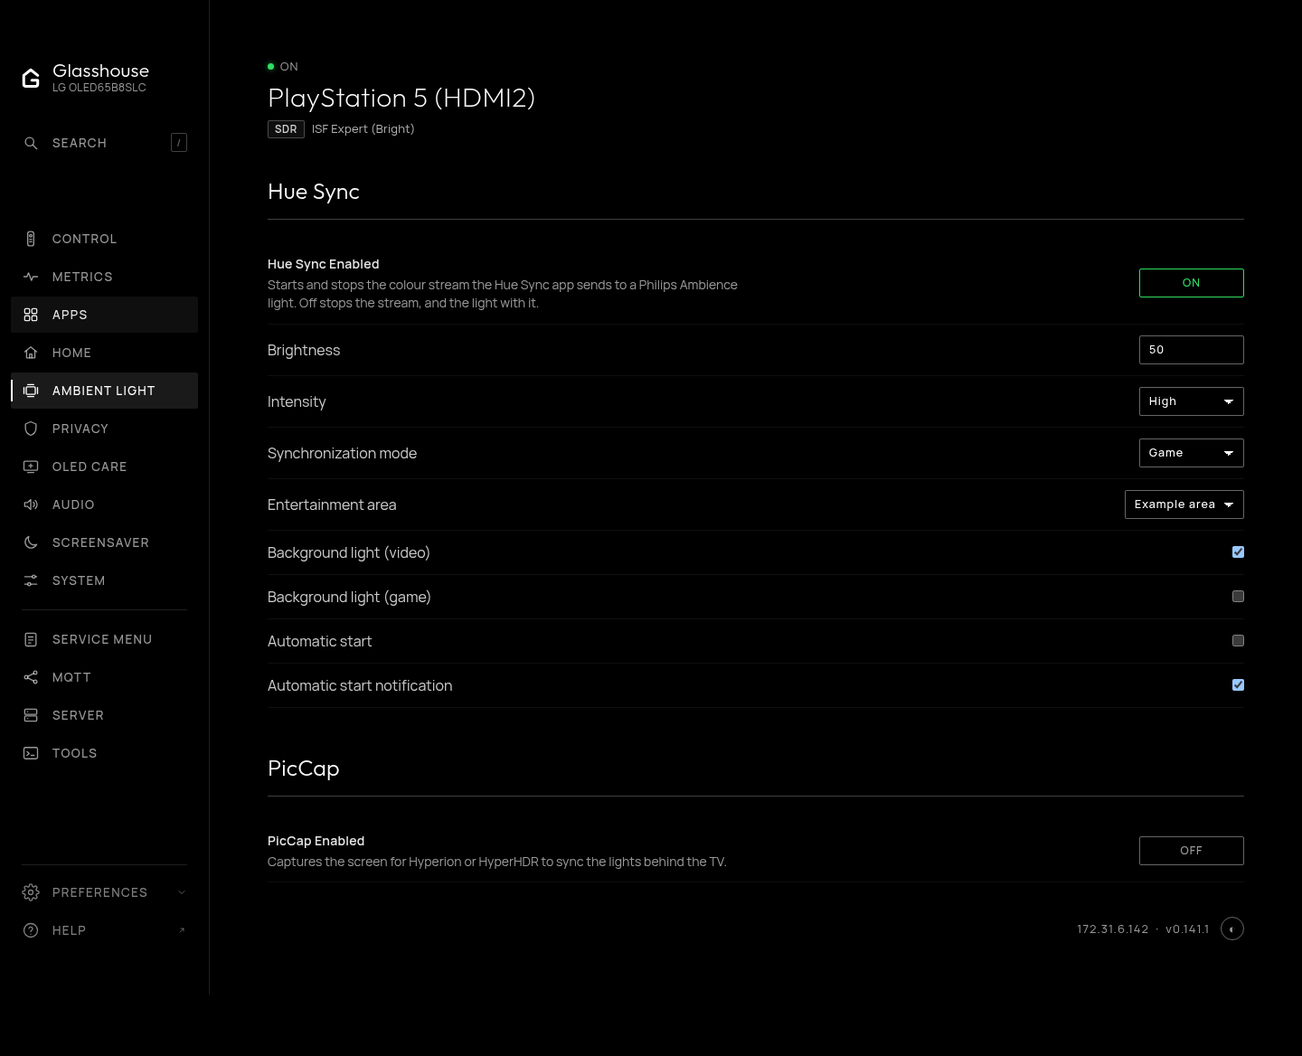
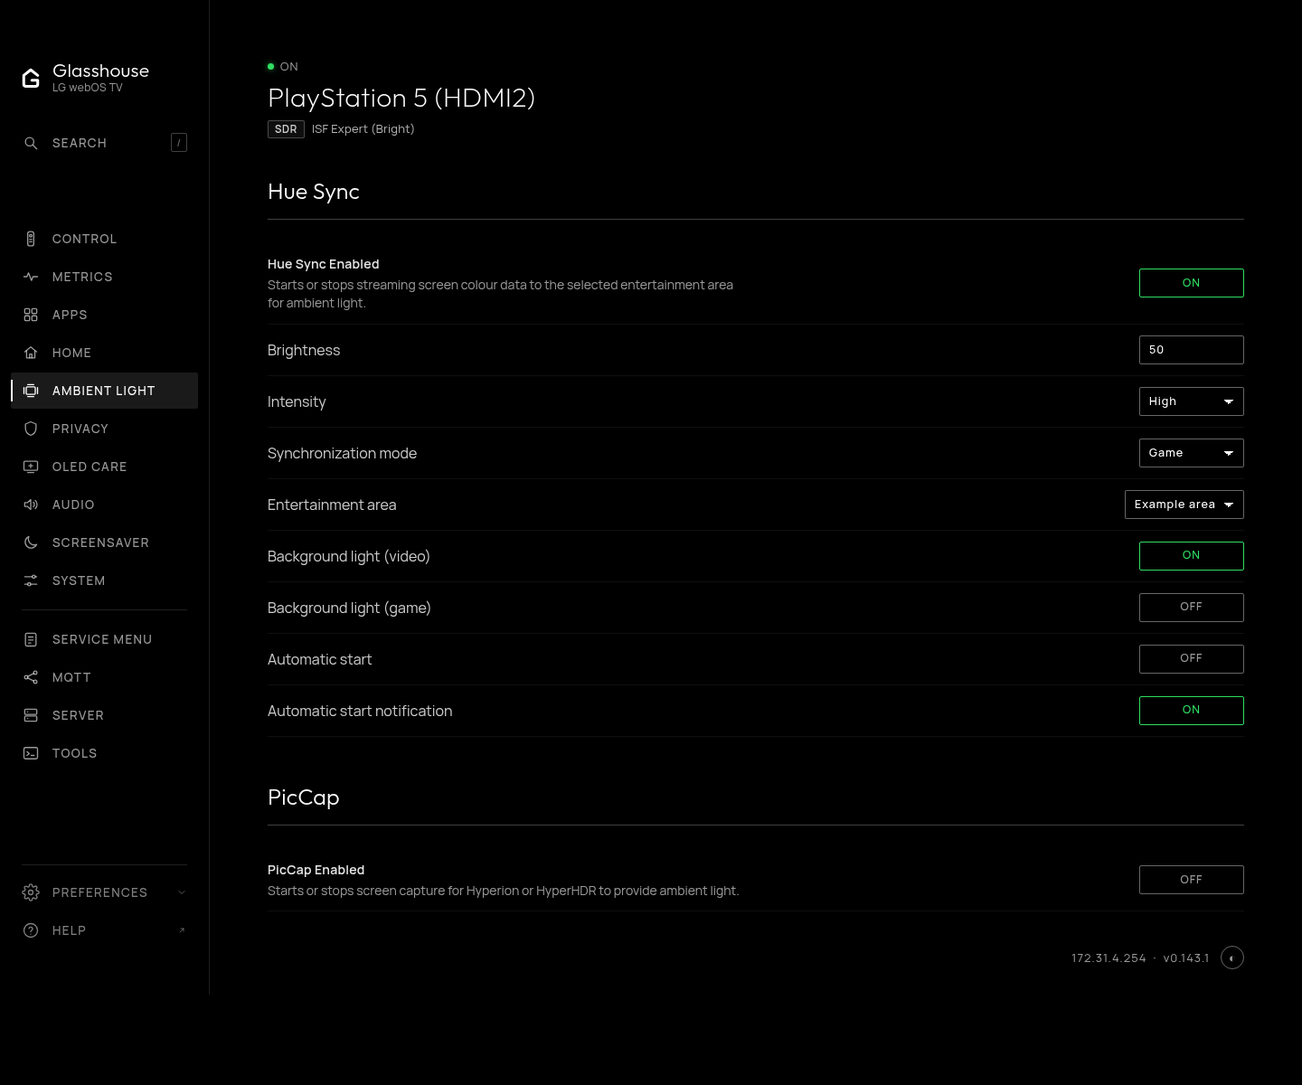
Hide unavailable Ambient Light tabs and use Hue Sync pill toggles

diff --git a/scripts/check-dashboards.js b/scripts/check-dashboards.js
@@ -2835,6 +2835,12 @@ async function visitHuesyncSettings(browser, base, problems) {
     if (!followsHome) fail('Ambient Light does not follow Home');
     await page.locator('#tabs [data-tab="ambient"]').click();
     await page.waitForSelector('#huesync-settings:not([hidden])');
+    for (const key of ['background_lightning_video', 'background_lightning_games', 'auto_start', 'auto_start_notification']) {
+      const toggle = page.locator('#huesync-' + key);
+      if (!(await toggle.evaluate(el => el.tagName === 'BUTTON' && el.classList.contains('pill')))) fail(key + ' is not a standard pill toggle');
+      if (await toggle.getAttribute('aria-pressed') !== String(settings[key]) ||
+          await toggle.textContent() !== (settings[key] ? 'On' : 'Off')) fail(key + ' does not show its current state');
+    }
     const categories = await page.locator('#ambient-huesync, #ambient-piccap').evaluateAll(els => els.filter(el => !el.hidden).map(el => el.querySelector('.pv-sec').textContent));
     if (JSON.stringify(categories) !== JSON.stringify(['Hue Sync', 'PicCap'])) fail('integration categories are missing or in the wrong order');
     if (await page.locator('#row-huesync .prot-title').textContent() !== 'Hue Sync Enabled' || await page.locator('#row-piccap .prot-title').textContent() !== 'PicCap Enabled') fail('enabled labels differ');
@@ -2885,21 +2891,30 @@ async function visitHuesyncSettings(browser, base, problems) {
         return command.action === 'huesyncSetting' && command.value.key === key;
       });
       const element = page.locator('#huesync-' + key);
-      if (typeof value === 'boolean') await element.setChecked(value);
-      else if (key === 'brightness') { await element.fill(String(value)); await element.dispatchEvent('change'); }
+      if (typeof value === 'boolean') await element.click();
+      else if (key === 'brightness') { await element.fill(String(value)); await element.blur(); }
       else await element.selectOption(String(value));
       const command = (await reply).request().postDataJSON();
       await page.waitForFunction(() => !huesyncSettingsBusy);
       if (!command || command.action !== 'huesyncSetting' || command.value.key !== key || command.value.value !== value) fail('wrong command for ' + key);
+      if (typeof value === 'boolean') {
+        await page.waitForFunction(({ key, value }) => document.getElementById('huesync-' + key).getAttribute('aria-pressed') === String(value), { key, value });
+        if (!(await element.evaluate((el, value) => el.classList.contains(value ? 'good' : 'idle'), value)) ||
+            await element.textContent() !== (value ? 'On' : 'Off')) fail(key + ' pill did not update after confirmation');
+      }
     }
     refuse = true;
+    await page.locator('#huesync-auto_start').click();
+    await page.waitForFunction(() => !huesyncSettingsBusy);
+    if (await page.locator('#huesync-auto_start').getAttribute('aria-pressed') !== 'true' ||
+        !(await page.locator('#huesync-auto_start').evaluate(el => el.classList.contains('good')))) fail('a refused boolean write changed its pill state');
     await page.locator('#huesync-brightness').fill('10');
-    await page.locator('#huesync-brightness').dispatchEvent('change');
+    await page.locator('#huesync-brightness').blur();
     await page.waitForFunction(() => !huesyncSettingsBusy);
     if (await page.locator('#huesync-brightness').inputValue() !== '60') fail('a refused write left an optimistic value visible');
-    settings._stale = ['brightness'];
+    settings._stale = ['brightness', 'auto_start'];
     await page.evaluate(() => tick());
-    await page.waitForFunction(() => document.querySelector('#huesync-brightness').disabled);
+    await page.waitForFunction(() => document.querySelector('#huesync-brightness').disabled && document.querySelector('#huesync-auto_start').disabled);
     if (!(await page.locator('#row-huesync-brightness').isVisible())) fail('a temporary failure removed the supported control');
     delete settings._stale;
     diagnostics.busy = true;
@@ -2928,14 +2943,23 @@ async function visitHuesyncSettings(browser, base, problems) {
     if (!(await page.locator('#ctl_huesync').evaluate(el => el.hidden))) fail('missing Hue Sync left its shortcut');
     piccapPresent = false;
     await page.evaluate(() => tick());
-    await page.waitForSelector('#ambient-empty:not([hidden])');
+    await page.waitForFunction(() => document.getElementById('tab-btn-ambient').hidden && activeTab === 'control');
+    if (!(await page.locator('#ambientpane').isHidden())) fail('unavailable Ambient Light panel remained open');
     if (!(await page.locator('#control-ambient').evaluate(el => el.hidden))) fail('empty remote toggle group remains visible');
+    await page.evaluate(() => showTab('ambient'));
+    if (await page.evaluate(() => activeTab) === 'ambient') fail('an unavailable Ambient Light tab can still be opened');
     huesyncPresent = true;
     await page.evaluate(() => tick());
+    await page.waitForFunction(() => !document.getElementById('tab-btn-ambient').hidden);
+    await page.evaluate(() => showTab('ambient'));
     await page.waitForSelector('#row-huesync:not([hidden])');
     if (await page.locator('#ambient-empty').isVisible()) fail('empty message remains with Hue Sync alone');
     if (!(await page.locator('#ambient-piccap').isHidden()) || !(await page.locator('#ambient-huesync').isVisible())) fail('missing PicCap left an empty category or hid Hue Sync');
     if (!(await page.locator('#ctl_piccap').evaluate(el => el.hidden))) fail('missing PicCap left its shortcut');
+    huesyncPresent = false;
+    await page.goto(base + '/?tab=ambient');
+    await page.waitForFunction(() => ambientAvailable === false && activeTab === 'control');
+    if (!(await page.locator('#tab-btn-ambient').isHidden()) || !(await page.locator('#control-ambient').isHidden())) fail('a deep link offered Ambient Light with neither integration installed');
   } finally { await page.unrouteAll({ behavior: 'wait' }); await page.close(); }
 }
 
@@ -3036,15 +3060,21 @@ async function visitTvHuesync(browser, base, problems) {
     await page.waitForFunction(() => rows.length === 2 && rows[0].head && rows[0].label === 'PicCap' && rows[1].key === 'piccap');
     piccapPresent = false;
     await page.evaluate(() => fetchTab(true));
-    await page.waitForFunction(() => rows.length === 1 && rows[0].label === 'No ambient light integrations found.');
-    await page.keyboard.press('ArrowRight');
-    await page.waitForFunction(() => T().key !== 'ambient');
-    await page.keyboard.press('ArrowLeft');
-    await page.waitForFunction(() => T().key === 'ambient');
-    present = true;
-    await page.evaluate(() => fetchTab(true));
+    await page.waitForFunction(() => !TABS.some(section => section.key === 'ambient') && T().key !== 'ambient');
+    if (await page.locator('#tabs [data-label="Ambient Light"]').count()) fail('the unavailable TV tab remained in navigation');
+    await page.reload();
+    await page.waitForFunction(() => !TABS.some(section => section.key === 'ambient') && T().key !== 'ambient');
+    const emptyText = await page.locator('#rows').textContent();
+    if (emptyText.includes('Hue Sync Enabled') || emptyText.includes('PicCap Enabled')) fail('an empty Ambient Light deep link left controls visible');
+    present = true; streaming = false;
+    await page.reload();
     await page.waitForFunction(() => rows.some(row => row.head && row.label === 'Hue Sync') && !rows.some(row => row.key === 'piccap'));
+    if (await page.evaluate(() => T().key) !== 'ambient') fail('a stopped Hue Sync integration did not retain its TV tab');
     if (await page.evaluate(() => rows.some(row => row.head && row.label === 'PicCap'))) fail('missing PicCap left an empty category');
+    present = false; piccapPresent = true; piccapRunning = false;
+    await page.reload();
+    await page.waitForFunction(() => rows.length === 2 && rows[1].key === 'piccap' && rows[1].next === true);
+    if (await page.evaluate(() => T().key) !== 'ambient') fail('a stopped PicCap integration did not retain its TV tab');
   } finally { await page.unrouteAll({ behavior: 'wait' }); await page.close(); }
 }
 

diff --git a/server/assets/ui.html b/server/assets/ui.html
@@ -66,7 +66,7 @@
     <button type="button" role="tab" data-tab="metrics"><svg class="nav-ico" viewBox="0 0 24 24" aria-hidden="true"><path d="M3 12h4l2-5 4 10 2-5h6"/></svg><span data-t="tab.metrics">Metrics</span></button>
     <button type="button" role="tab" data-tab="apps"><svg class="nav-ico" viewBox="0 0 24 24" aria-hidden="true"><rect x="4" y="4" width="6.5" height="6.5" rx="1.5"/><rect x="13.5" y="4" width="6.5" height="6.5" rx="1.5"/><rect x="4" y="13.5" width="6.5" height="6.5" rx="1.5"/><rect x="13.5" y="13.5" width="6.5" height="6.5" rx="1.5"/></svg><span data-t="tab.apps">Apps</span></button>
     <button type="button" role="tab" data-tab="home" id="tab-btn-home" hidden><svg class="nav-ico" viewBox="0 0 24 24" aria-hidden="true"><path d="M4 11l8-6.5 8 6.5"/><path d="M6.5 9.5V19h11V9.5"/><path d="M10.5 19v-5h3v5"/></svg><span data-t="tab.home">Home</span></button>
-    <button type="button" role="tab" data-tab="ambient"><svg class="nav-ico" viewBox="0 0 24 24" aria-hidden="true"><rect x="6" y="7" width="12" height="10" rx="1.5"/><path d="M3 8v8M21 8v8M8 4h8M8 20h8"/></svg><span data-t="adv.ambient">Ambient Light</span></button>
+    <button type="button" role="tab" data-tab="ambient" id="tab-btn-ambient" hidden><svg class="nav-ico" viewBox="0 0 24 24" aria-hidden="true"><rect x="6" y="7" width="12" height="10" rx="1.5"/><path d="M3 8v8M21 8v8M8 4h8M8 20h8"/></svg><span data-t="adv.ambient">Ambient Light</span></button>
     <button type="button" role="tab" data-tab="privacy"><svg class="nav-ico" viewBox="0 0 24 24" aria-hidden="true"><path d="M12 3l7 3v5.5c0 4.4-3 8-7 9.5-4-1.5-7-5.1-7-9.5V6z"/></svg><span data-t="tab.privacy">Privacy</span></button>
     <button type="button" role="tab" data-tab="oledcare" id="tab-btn-oledcare" hidden><svg class="nav-ico" viewBox="0 0 24 24" aria-hidden="true"><rect x="3" y="5" width="18" height="12" rx="1.5"/><path d="M8 20h8M12 8.5v5M9.5 11h5"/></svg><span data-t="tab.oledCare">OLED Care</span></button>
     <button type="button" role="tab" data-tab="game" id="tab-btn-game" hidden><svg class="nav-ico" viewBox="0 0 24 24" aria-hidden="true"><path d="M7 8h10a4 4 0 0 1 4 4v1.5a3 3 0 0 1-5.4 1.8L14.5 14h-5l-1.1 1.3A3 3 0 0 1 3 13.5V12a4 4 0 0 1 4-4z"/><path d="M7.5 11v2.5M6.25 12.25h2.5M16 12h.01"/></svg><span data-t="tab.game">Game</span></button>
@@ -652,19 +652,19 @@
       </div>
       <div class="prot-row" id="row-huesync-background_lightning_video" hidden>
         <label class="prot-main" for="huesync-background_lightning_video" data-t="adv.huesync.backgroundlightningvideo">Background light (video)</label>
-        <div class="prot-status"><input type="checkbox" id="huesync-background_lightning_video" onchange="changeHuesyncSetting(this)"></div>
+        <div class="prot-status"><button type="button" class="pill idle" id="huesync-background_lightning_video" onclick="changeHuesyncSetting(this)" aria-pressed="false">&mdash;</button></div>
       </div>
       <div class="prot-row" id="row-huesync-background_lightning_games" hidden>
         <label class="prot-main" for="huesync-background_lightning_games" data-t="adv.huesync.backgroundlightninggames">Background light (game)</label>
-        <div class="prot-status"><input type="checkbox" id="huesync-background_lightning_games" onchange="changeHuesyncSetting(this)"></div>
+        <div class="prot-status"><button type="button" class="pill idle" id="huesync-background_lightning_games" onclick="changeHuesyncSetting(this)" aria-pressed="false">&mdash;</button></div>
       </div>
       <div class="prot-row" id="row-huesync-auto_start" hidden>
         <label class="prot-main" for="huesync-auto_start" data-t="adv.huesync.autostart">Automatic start</label>
-        <div class="prot-status"><input type="checkbox" id="huesync-auto_start" onchange="changeHuesyncSetting(this)"></div>
+        <div class="prot-status"><button type="button" class="pill idle" id="huesync-auto_start" onclick="changeHuesyncSetting(this)" aria-pressed="false">&mdash;</button></div>
       </div>
       <div class="prot-row" id="row-huesync-auto_start_notification" hidden>
         <label class="prot-main" for="huesync-auto_start_notification" data-t="adv.huesync.autostartnotification">Automatic start notification</label>
-        <div class="prot-status"><input type="checkbox" id="huesync-auto_start_notification" onchange="changeHuesyncSetting(this)"></div>
+        <div class="prot-status"><button type="button" class="pill idle" id="huesync-auto_start_notification" onclick="changeHuesyncSetting(this)" aria-pressed="false">&mdash;</button></div>
       </div>
     </div>
     </div>

diff --git a/server/assets/dashboard.html b/server/assets/dashboard.html
@@ -424,7 +424,7 @@ var TABS = [
   { key: 'game',    label: t('tab.game', 'Game'),         url: '/api/game',        build: gameRows, optional: true },
   { key: 'picture', label: t('tab.picture', 'Picture'),      url: '/api/picture',     build: pictureRows, poll: 5000, optional: true },
   { key: 'audio',   label: t('tab.audio', 'Audio'),        url: '/api/audio?with=settings', build: audioRows, poll: 8000 },
-  { key: 'ambient', label: t('adv.ambient', 'Ambient Light'), url: '/api/stats', build: ambientRows, poll: 5000 },
+  { key: 'ambient', label: t('adv.ambient', 'Ambient Light'), url: '/api/stats', build: ambientRows, poll: 5000, optional: true },
   { key: 'saver',   label: t('tv.tab.screenSaver', 'Screen Saver'), url: '/api/screensaver', build: saverRows, optional: true },
   { key: 'home',    label: t('tab.home', 'Home'),         url: '/api/home?with=catalogue,channels,lghome', build: homeRows, optional: true },
   { key: 'privacy', label: t('tab.privacy', 'Privacy'),      url: '/api/privacy',     build: privacyRows },
@@ -701,7 +701,6 @@ function ambientRows(d) {
       hint: t('adv.piccap.desc', 'Starts or stops screen capture for Hyperion or HyperHDR to provide ambient light.'),
       press: pc.running ? t('tv.press.turnOff', 'Press OK to turn off') : t('tv.press.turnOn', 'Press OK to turn on') });
   }
-  if (!r.length) r.push({ label: t('ambient.none', 'No ambient light integrations found.'), value: '' });
   return r;
 }
 
@@ -3171,6 +3170,7 @@ function fetchTab(keepSel) {
     .then(function (d) {
       if (T().key !== key || sub !== view) return; // the user moved on while this was in flight
       if (adjusting || adjustInFlight) return; // a picture setting is being adjusted
+      if (section.optional && removeUnavailableTab(section, d)) return;
       data[key] = d;
       rows = buildRows(section, d);
       if (initialSel !== null && initialSel < rows.length && (!rows[initialSel] || !rows[initialSel].head)) {
@@ -3941,18 +3941,26 @@ openTab(initTab, initialSel !== null);
 /* A section the TV may not have is dropped once its endpoint says so, as the
    browser dashboard hides its tab: a B8 has no Game Optimizer, and an LCD TV
    has no OLED Care. */
+function removeUnavailableTab(section, d) {
+  var i = TABS.indexOf(section);
+  if (!d || i < 0) return false;
+  var unavailable = section.key === 'ambient'
+    ? d.ok === true && !d.piccapCapture && !d.huesyncStreaming : d.available === false;
+  if (!unavailable) return false;
+  var cur = T();
+  TABS.splice(i, 1);
+  tab = Math.max(0, TABS.indexOf(cur));
+  renderTabs();
+  if (cur === section) openTab(tab);
+  return true;
+}
+
 TABS.forEach(function (section) {
   if (!section.optional) return;
   fetch(section.url, { cache: 'no-store' })
     .then(function (r) { return r.json(); })
     .then(function (d) {
-      var i = TABS.indexOf(section);
-      if (!d || d.available !== false || i < 0) return;
-      var cur = TABS[tab];
-      TABS.splice(i, 1);
-      tab = Math.max(0, TABS.indexOf(cur));
-      renderTabs();
-      if (cur === section) openTab(tab);
+      removeUnavailableTab(section, d);
     })
     .catch(function () {});
 });

diff --git a/server/assets/ui/controls.js b/server/assets/ui/controls.js
@@ -807,6 +807,10 @@ function updateDpadMobileDefault() {
 
 let huesyncSettingsBusy = false;
 let lastHuesyncSettings = {};
+function renderHuesyncSettingToggle(el, on) {
+  advPill(el.id, el.id, on);
+  el.setAttribute('aria-pressed', String(on === true));
+}
 async function changeHuesyncSetting(el) {
   if (huesyncSettingsBusy) return;
   if (el.type === 'number' && (!el.validity.valid || el.value === '')) { el.reportValidity(); return; }
@@ -815,10 +819,10 @@ async function changeHuesyncSetting(el) {
   el.disabled = true;
   try {
     const result = await sendCommand('huesyncSetting', { key,
-      value: el.type === 'checkbox' ? el.checked : el.type === 'number' ? Number(el.value) :
+      value: el.tagName === 'BUTTON' ? previous !== true : el.type === 'number' ? Number(el.value) :
         el.id === 'huesync-intensity' ? Number(el.value) : el.value });
     const actual = result && result.settings ? result.settings[key] : previous;
-    if (el.type === 'checkbox') el.checked = actual === true;
+    if (el.tagName === 'BUTTON') renderHuesyncSettingToggle(el, actual);
     else el.value = actual === undefined ? '' : String(actual);
   } finally {
     huesyncSettingsBusy = false;
@@ -846,11 +850,11 @@ function renderHuesyncSettings(hs) {
     sync_mode: [{ value: '0', label: t('adv.huesync.video', 'Video') }, { value: '1', label: t('adv.huesync.game', 'Game') }],
     current_ec: (settings.ec_list || []).map(area => ({ value: area.id, label: area.name }))
   };
-  container.querySelectorAll('input, select').forEach(el => {
+  container.querySelectorAll('input, select, button').forEach(el => {
     const key = el.id.slice(8), value = settings[key];
     el.closest('.prot-row').hidden = value === undefined || (key === 'current_ec' && !choices.current_ec.length);
     el.disabled = huesyncSettingsBusy || hs && hs.writable === false || !!notReady || stale.includes(key) || key === 'current_ec' && stale.includes('ec_list');
-    if (huesyncSettingsBusy || document.activeElement === el) return;
+    if (huesyncSettingsBusy || document.activeElement === el && el.tagName !== 'BUTTON') return;
     if (el.tagName === 'SELECT') {
       el.replaceChildren();
       (choices[key] || []).forEach(choice => {
@@ -860,7 +864,7 @@ function renderHuesyncSettings(hs) {
         el.appendChild(option);
       });
       el.value = String(value);
-    } else if (el.type === 'checkbox') el.checked = value === true;
+    } else if (el.tagName === 'BUTTON') renderHuesyncSettingToggle(el, value);
     else el.value = value === undefined ? '' : value;
   });
 }

diff --git a/test/test-dashboard-view.js b/test/test-dashboard-view.js
@@ -185,7 +185,7 @@ vm.runInNewContext(scriptMatch[1] + '\n;' + testPagingSnippet, sandbox);
   assert.strictEqual(partial.filter(function (r) { return r.key === 'auto_start'; }).length, 0, 'unsupported switches are omitted');
   var empty = sandbox.ambientRows({ ok: true });
   assert.strictEqual(empty.filter(function (r) { return r.key === 'huesyncMore' || r.act === 'huesync'; }).length, 0);
-  assert.strictEqual(empty[0].label, 'No ambient light integrations found.');
+  assert.strictEqual(empty.length, 0, 'there are no rows without an ambient light integration');
   assert.strictEqual(sandbox.optionRows({ ok: true, huesyncStreaming: hs }).some(function (r) { return r.act === 'huesync'; }), false, 'System contains no ambient light controls');
   console.log('  \u2713 Hue Sync ambient rows, native values and write permissions');
 })();
@@ -197,6 +197,7 @@ vm.runInNewContext(scriptMatch[1] + '\n;' + testPagingSnippet, sandbox);
   assert.strictEqual(keys.indexOf('saver'), keys.indexOf('ambient') + 1, 'Screen Saver follows Ambient Light');
   assert.strictEqual(ambient.url, '/api/stats', 'ambient controls need no unrelated LG settings');
   assert.strictEqual(ambient.build, sandbox.ambientRows);
+  assert.strictEqual(ambient.optional, true, 'the menu is omitted when neither integration is available');
   var pc = { running: true, writable: true };
   var hs = { streaming: true, writable: true };
   var combined = sandbox.ambientRows({ ok: true, piccapCapture: pc, huesyncStreaming: hs });

diff --git a/server/assets/ui/readouts.js b/server/assets/ui/readouts.js
@@ -678,6 +678,10 @@ async function tick() {
     // If it was showing when the set turned out not to be an OLED, leave it.
     if (!isOledSet && activeTab === 'oledcare') showTab('control');
 
+    ambientAvailable = !!(d.huesyncStreaming || d.piccapCapture);
+    q('tab-btn-ambient').hidden = !ambientAvailable;
+    if (!ambientAvailable && activeTab === 'ambient') showTab('control');
+
     const ssOnInput = /^hdmi[1-4]$/.test(d.app || '') || d.app === 'livetv';
     refuseScreensaver(q('btn_ss'), ssOnInput ? SS_ONLY_IN_APPS : '');
     /* Same control on the Screensaver tab, where it says which way it will go:

diff --git a/server/assets/ui/tabs.js b/server/assets/ui/tabs.js
@@ -53,6 +53,7 @@ function reportNav() {
 }
 // null until the first telemetry says either way.
 let isOledSet = null;
+let ambientAvailable = null;
 
 function showTab(name) {
   clearErr();
@@ -70,6 +71,7 @@ function showTab(name) {
    */
   if (name === 'oledcare' && isOledSet === false) name = 'control';
   if (name === 'home' && homeAvailable === false) name = 'control';
+  if (name === 'ambient' && ambientAvailable === false) name = 'control';
   activeTab = name;
   for (const [key, id] of Object.entries(TABS)) {
     const el = q(id);

diff --git a/docs/dashboard/ambient-light.md b/docs/dashboard/ambient-light.md
@@ -5,7 +5,8 @@ The TV app places this top-level menu between **Audio** and **Screen Saver**.
 Available integrations have separate
 categories, **Hue Sync** first and **PicCap** second. Categories and Control
 shortcuts are hidden when an integration is unavailable, as with other optional
-Glasshouse controls. If neither is available, the page shows a short message.
+Glasshouse controls. The Ambient Light tab is hidden when neither integration
+is available, including when an unavailable tab is opened from a saved link.
 
 * **[Hue Sync Enabled](../huesync.md):** Starts or stops streaming screen colour
   data to the selected entertainment area for ambient light. Brightness,
@@ -13,6 +14,9 @@ Glasshouse controls. If neither is available, the page shows a short message.
   automatic start and its notification are shown directly.
 * **[PicCap Enabled](../piccap.md):** Starts or stops screen capture for
   Hyperion or HyperHDR to provide ambient light.
+
+Background light and automatic start settings use the same On/Off pill buttons
+as the integration switches. Their state follows the confirmed setting value.
 
 The switches are independent, so either or both integrations can run. The
 [Control](control.md) page has quick toggles labelled **Hue Sync** and

diff --git a/docs/development/testing.md b/docs/development/testing.md
@@ -583,6 +583,11 @@ availability combinations with neither, either or both integrations. Missing int
 headings or shortcuts. PicCap descriptions name both Hyperion and HyperHDR.
 `test-dashboard-view.js` also checks the TV menu order, flat row grouping, empty
 state and per-field stale permissions.
+The browser checks verify that all four Hue Sync boolean settings use standard
+On/Off pill toggles, send native booleans and retain their confirmed state after
+a refused write. Both dashboards hide the Ambient Light tab when neither
+integration is available, including on deep links, and keep it for a stopped
+integration. The web tab returns when an integration becomes available again.
 `test-routes.js` verifies both integrations' write permissions. Screenshots use
 synthetic data. The Hue Sync checks wait for intercepted requests to finish
 before closing each page, so pending stats replies cannot outlive the page.

diff --git a/docs/apps/tv-app.md b/docs/apps/tv-app.md
@@ -110,7 +110,8 @@ Removing the app changes nothing else, since the dashboard server continues to r
 The **Ambient Light** top-level menu sits between **Audio** and **Screen Saver**. **Hue Sync** and **PicCap**
 have their own categories, in that order, with **Hue Sync Enabled** and
 **PicCap Enabled** switches. An unavailable integration is hidden, including its
-category heading. PicCap supports Hyperion or HyperHDR. All Hue Sync controls are shown directly:
+category heading. The menu is omitted when neither integration is available.
+PicCap supports Hyperion or HyperHDR. All Hue Sync controls are shown directly:
 brightness, intensity, Video/Game mode, entertainment area, background light for
 each mode, automatic start and its notification. Press OK to toggle or cycle a
 setting. For brightness, press OK, adjust with the arrows, then OK or Back to

diff --git a/docs/TV-CHANGES.md b/docs/TV-CHANGES.md
@@ -239,4 +239,6 @@ separate Hue Sync and PicCap categories, in that order, with independent
 Hue Sync Enabled and PicCap Enabled switches and all supported settings shown
 directly. Unavailable integrations and their headings are hidden. The web
 Control page also has quick toggles below Playback, using the same commands and
-write permissions.
+write permissions. Both dashboards hide the Ambient Light tab when neither
+integration is available; saved links then open Control on the web or Metrics
+in the TV app.
